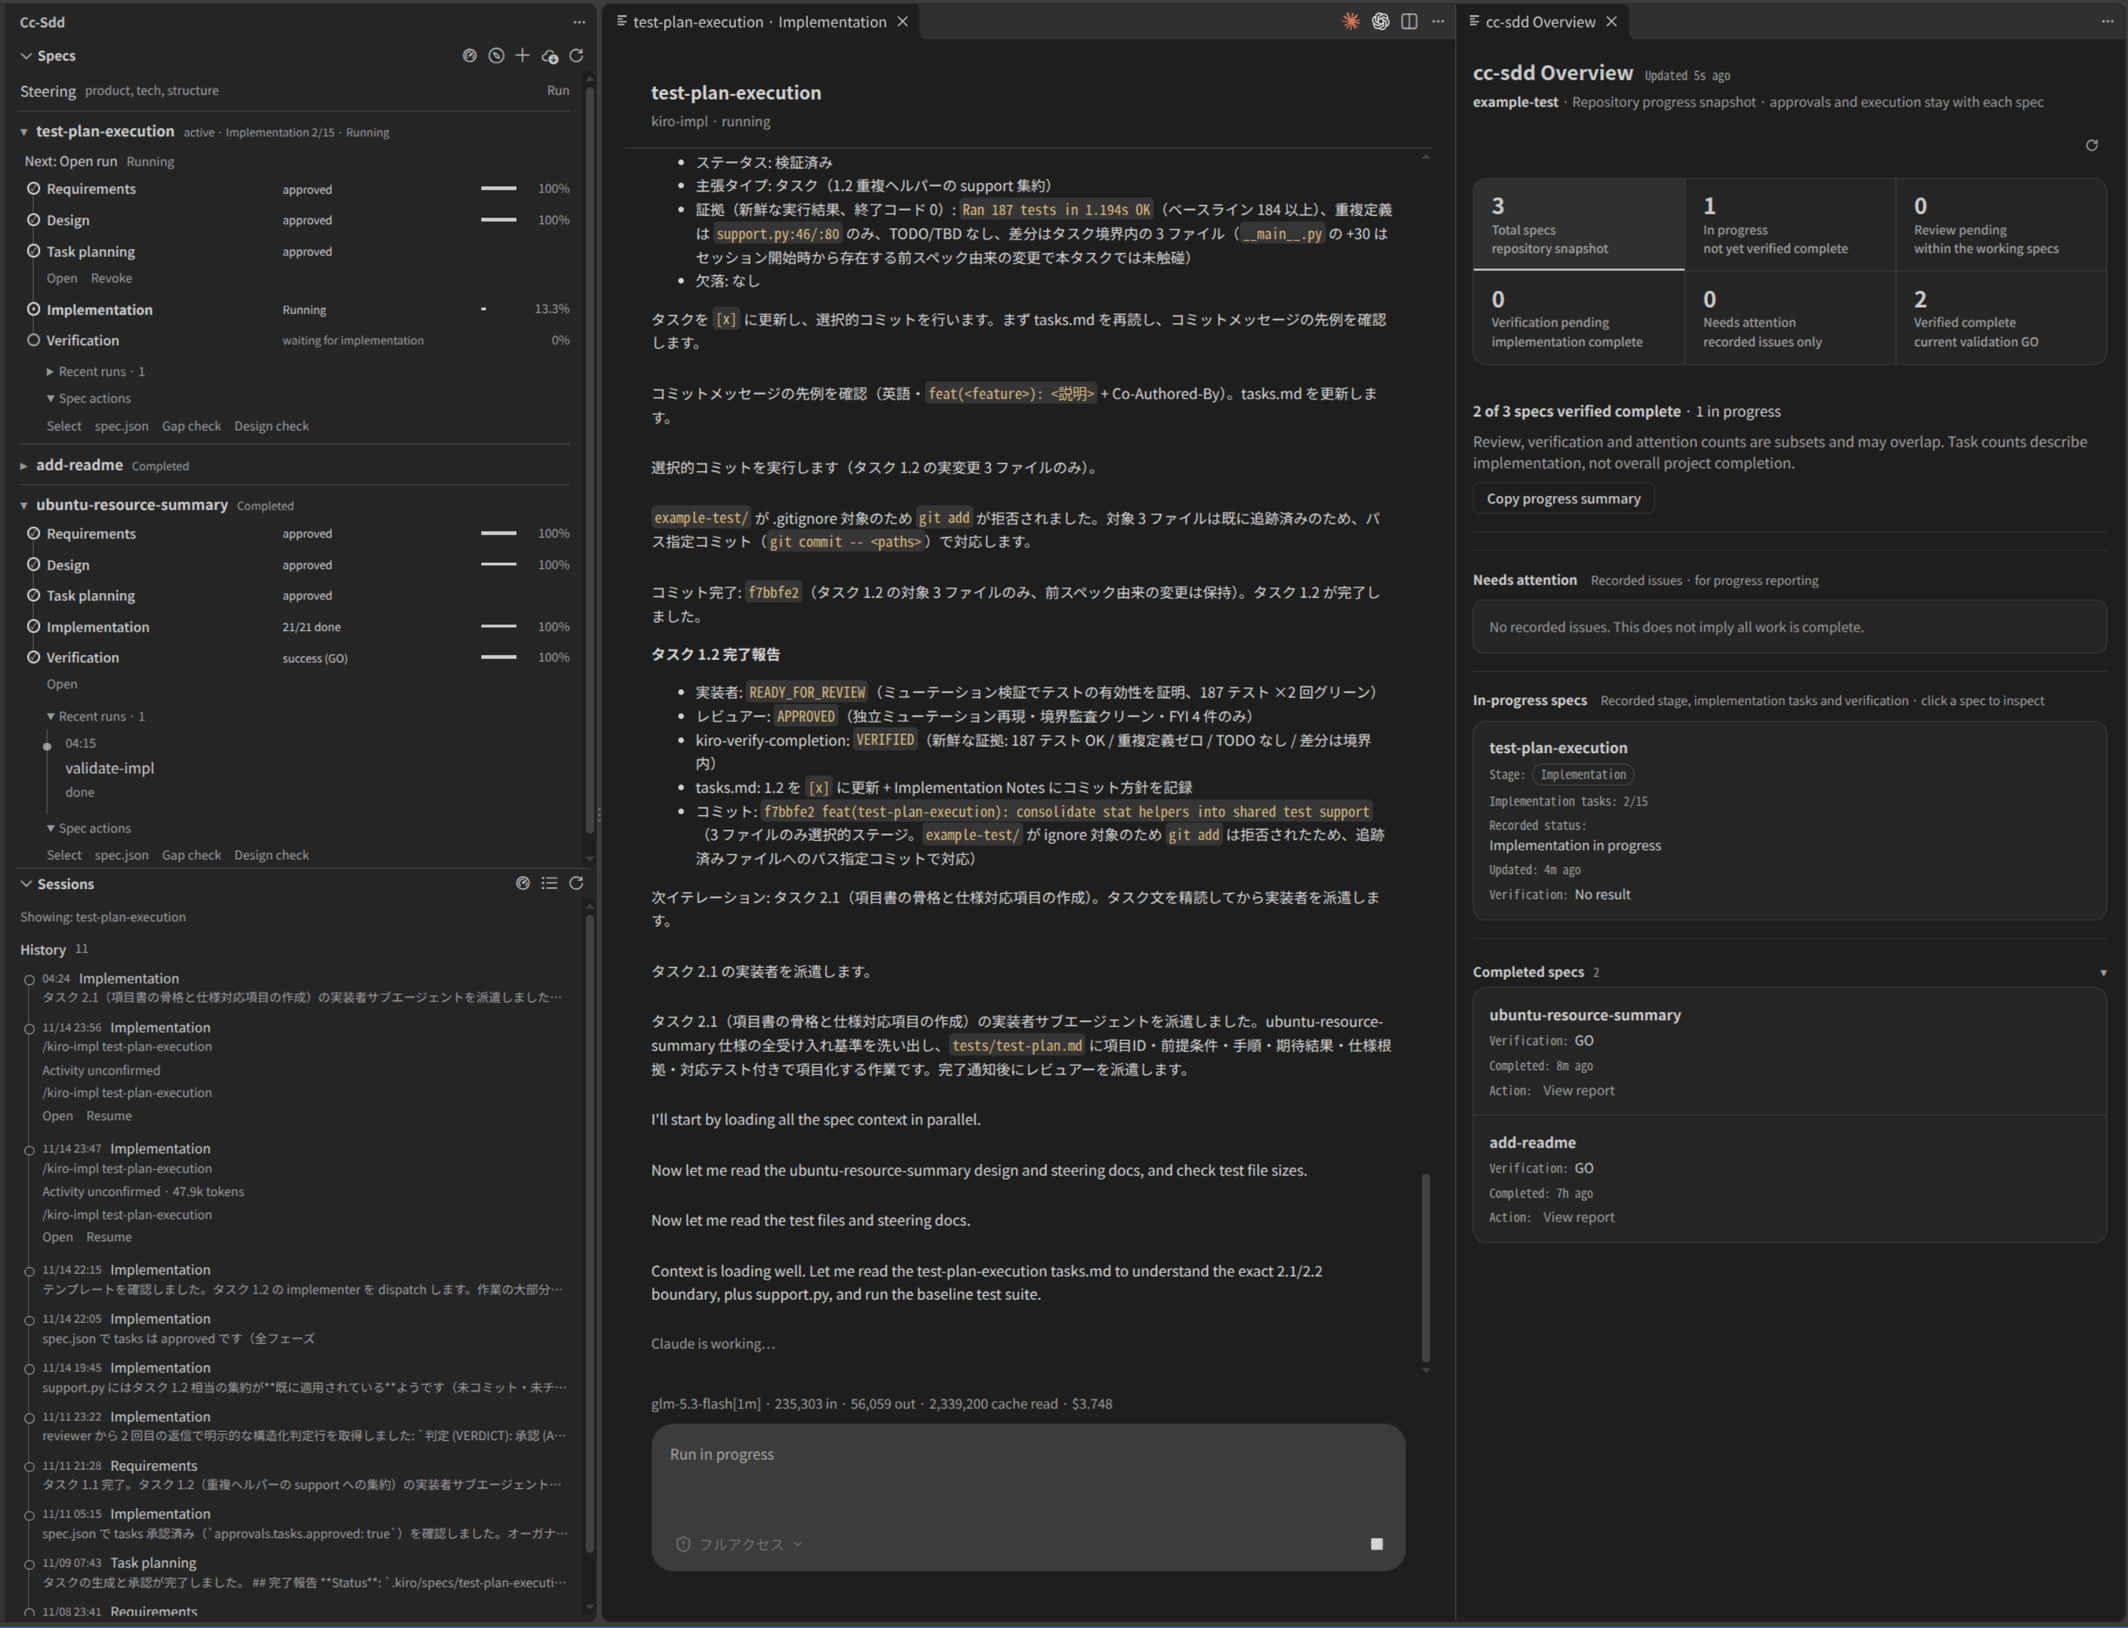
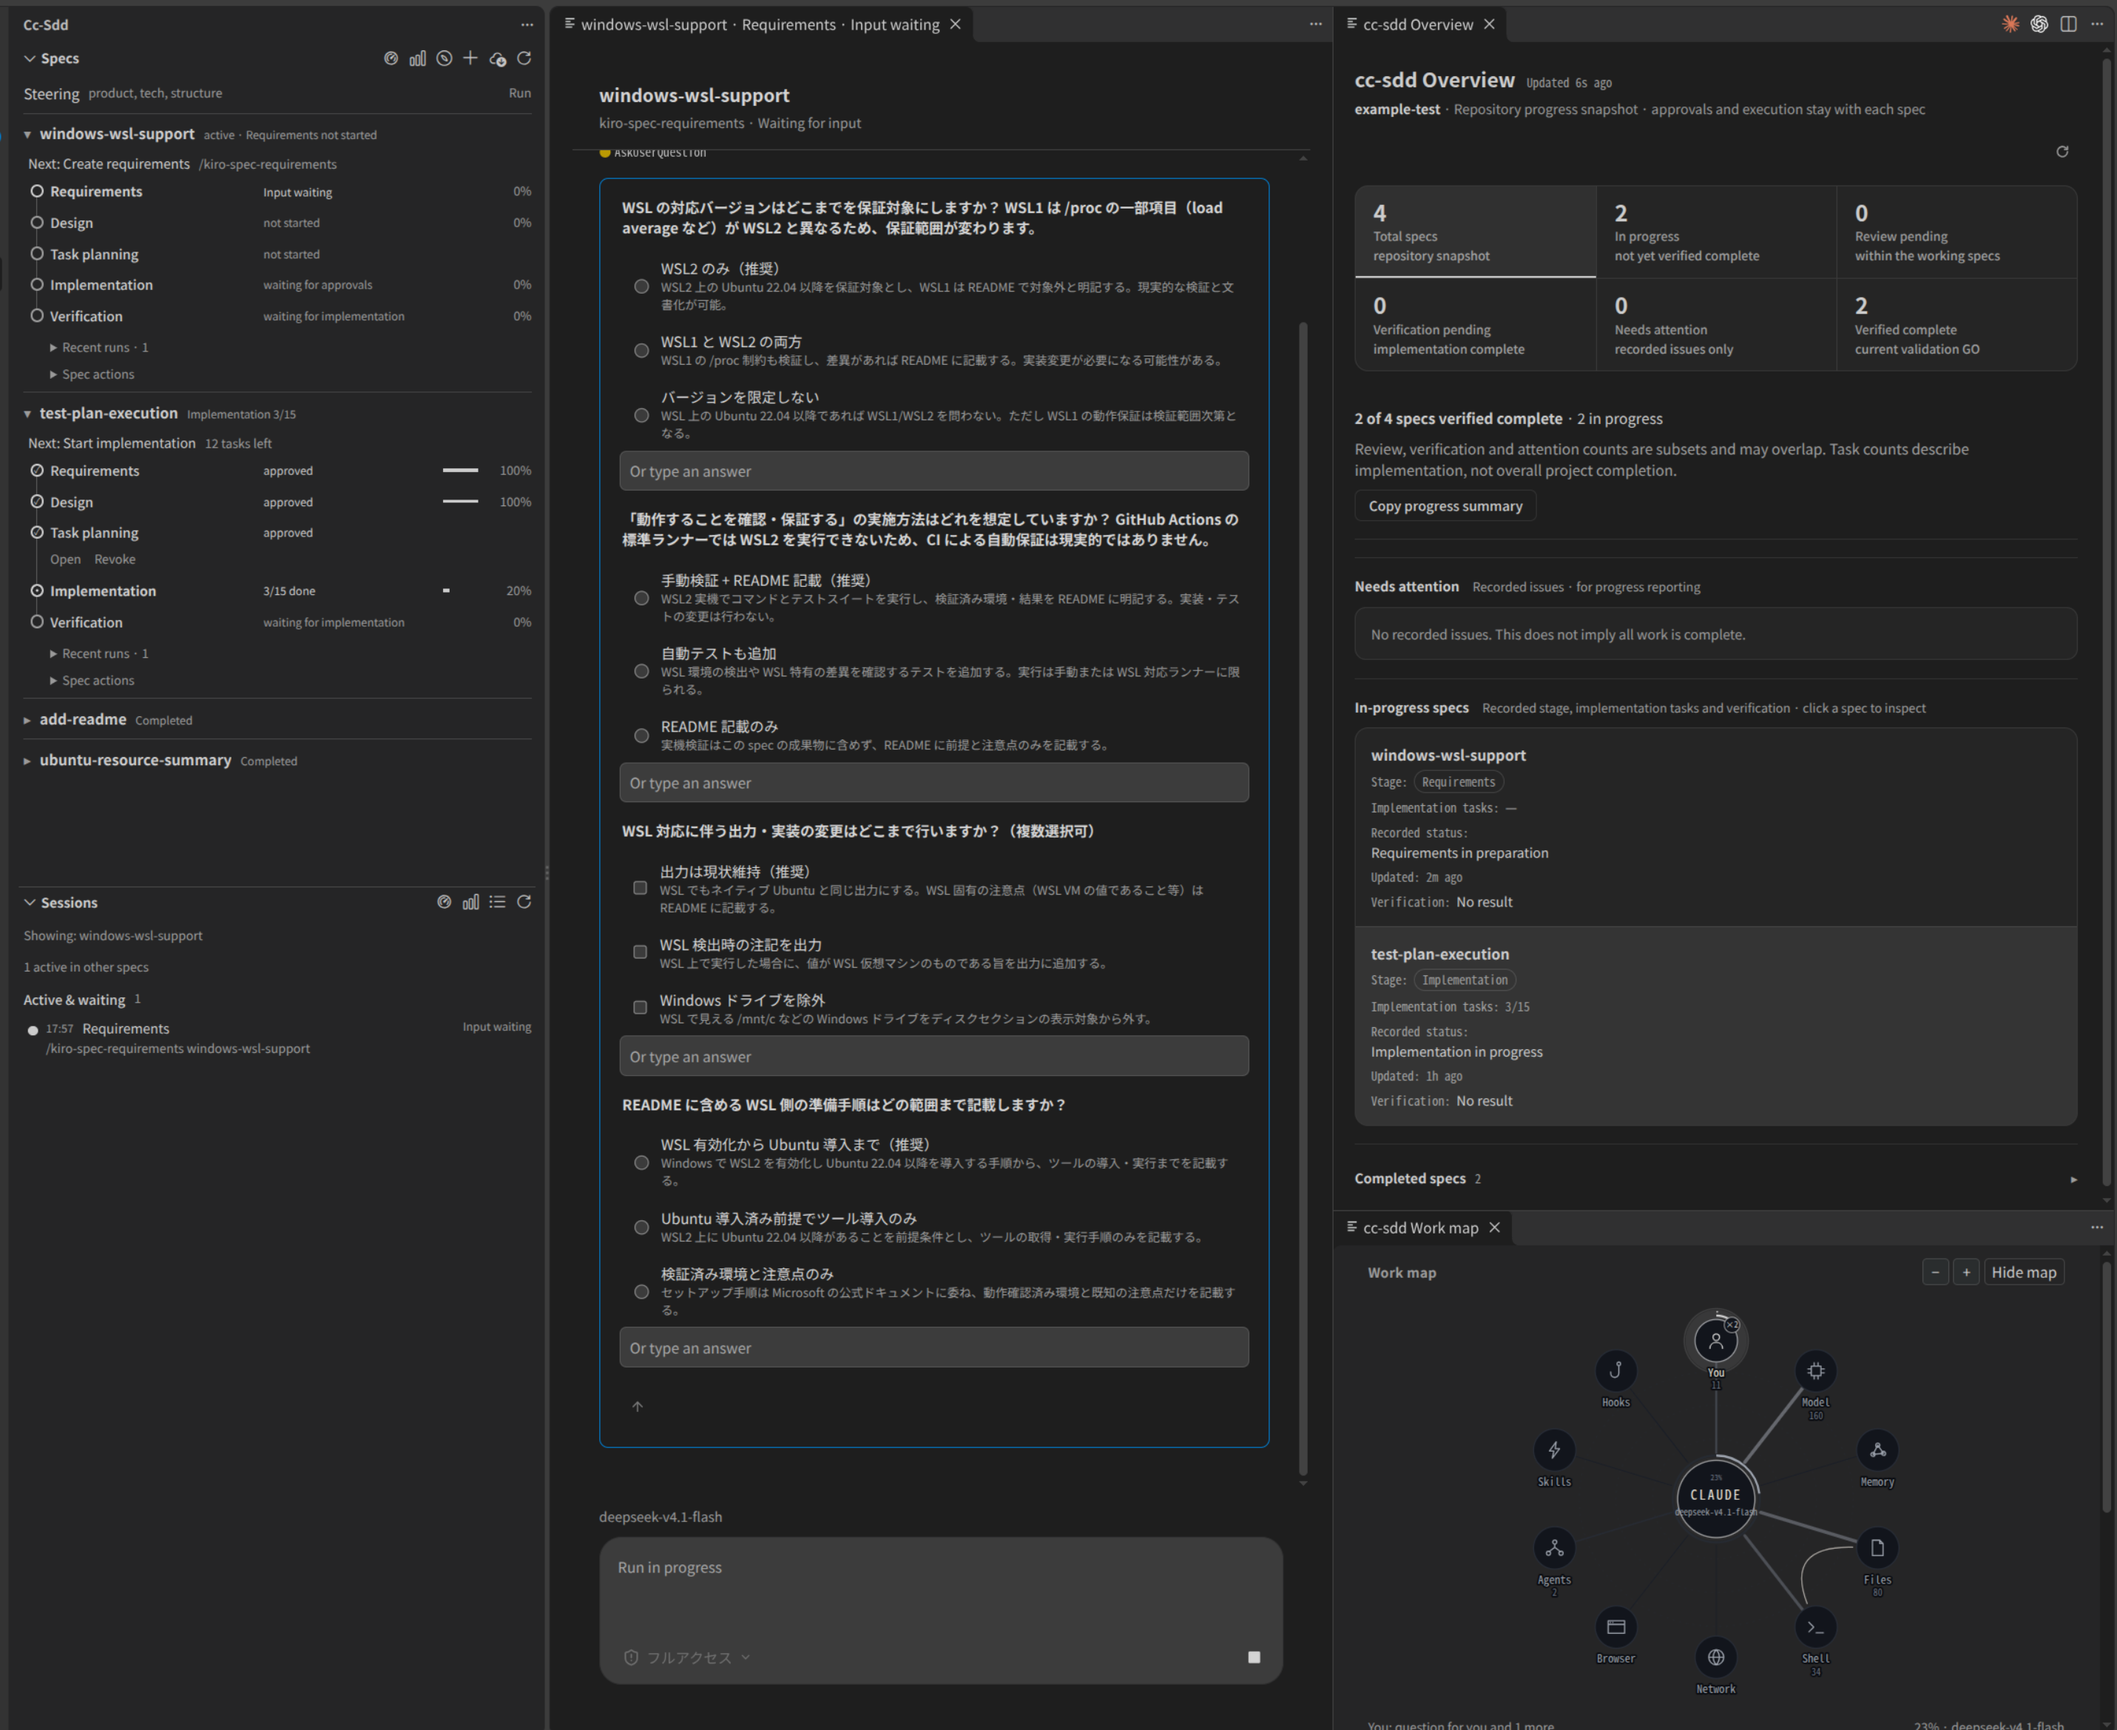
docs: refresh README and workbench screenshot for the work map

diff --git a/README.md b/README.md
@@ -4,21 +4,22 @@
 English | <a href="./README_ja.md">日本語</a>
 </sub></div>
 
-A VS Code workbench for [cc-sdd](https://github.com/gotalab/cc-sdd) specs. It reads `.kiro/specs/` directly and adds the missing UI layer: a spec explorer, approval gates, phase launchers, a task board, a headless **Runs** console, resumable Claude Code sessions, and a leader/PM **Overview** portfolio for spec progress.
+A VS Code workbench for [cc-sdd](https://github.com/gotalab/cc-sdd) specs. It reads `.kiro/specs/` directly and adds the missing UI layer: a spec explorer, approval gates, phase launchers, a task board, a headless **Runs** console with inline questions, resumable Claude Code sessions, a leader/PM **Overview** portfolio, and a live **Work map** of runs.
 
-![cc-sdd Specs workbench: Specs and Sessions in the sidebar, individual Run tabs in the middle, and the progress-reporting Overview on the right](./assets/workbench.png)
+![cc-sdd Specs workbench: Specs and Sessions in the sidebar, a Run with inline question cards in the middle, and the Overview and Work map on the right](./assets/workbench.png)
 
-The workbench is built around a Specs sidebar with embedded implementation tasks and a Sessions history timeline and two panels:
+The workbench is built around a Specs sidebar with embedded implementation tasks and a Sessions history timeline, plus three panels:
 
 - **Specs, Tasks, Sessions** — the sidebar selects one spec, shows its Requirements → Design → Tasks → Implementation → Verification pipeline, and keeps task execution and session resume in the matching views.
-- **Runs** — shows Markdown responses and progress in an assistant-ui conversation. Answer permission requests and single-choice, multiple-choice, or free-text questions inline; tool logs are hidden.
+- **Runs** — shows Markdown responses and progress in an assistant-ui conversation. Answer permission requests and single-choice, multiple-choice, or free-text questions inline; full tool logs stay hidden, while the last few tool calls appear under the live status line.
 - **Overview** — A repository progress snapshot for reporting: total / in-progress / review / verification / attention / verified counts, recorded concerns, spec stages and implementation progress, and collapsed verified completions. Copy progress summary exports the current snapshot. Approvals and execution remain in Specs.
+- **Work map** — a live map of headless runs in its own editor tab: tool calls, model steps, subagents and permissions light their stations as they happen, with a context-window ring and the last 16 actions. Monochrome by default, English labels, and an opt-in sidebar mirror.
 
 Architecture and internals (Japanese): **[docs/](./docs/README.md)**
 
 Specs uses a theme-aware sidebar timeline with connected stage markers, implementation task progress, approval/run actions, and the five most recent runs in this window. Implementation tasks are embedded under each spec’s Implementation stage, with completed tasks folded away. The standalone Tasks view has been removed; Sessions uses the same monochrome timeline style: active sessions first, then history ordered by last activity, with details and resume actions on expansion. Expansion and reading position are preserved on refresh.
 
-Runs uses one editor tab per run, titled with its spec and stage. Reopening a run or session reuses its tab. Closing a tab keeps the run available and does not cancel execution; use the square stop icon to stop it. `cc-sdd: Show Runs Console` opens a run picker with waiting runs first (or the only run directly). Session history also opens in its own tab. The rounded composer supports follow-up messages and an upward-opening permission menu. Send, resume, stop, and phase actions use icons with tooltips; there is no model selector.
+Runs uses one editor tab per run, titled with its spec and stage. Reopening a run or session reuses its tab. Closing a tab keeps the run available and does not cancel execution; use the square stop icon to stop it. `cc-sdd: Show Runs Console` opens a run picker with waiting runs first (or the only run directly). Session history also opens in its own tab. `AskUserQuestion` renders as inline cards with recommended options, multi-select choices and a free-text field. The rounded composer supports follow-up messages and an upward-opening permission menu. Send, resume, stop, and phase actions use icons with tooltips; there is no model selector.
 
 ## What it does
 
@@ -27,6 +28,7 @@ Runs uses one editor tab per run, titled with its spec and stage. Reopening a ru
 - **Approval gates** — validates the artifact before recording an approval. Missing sections and unresolved `{{PLACEHOLDER}}` tokens block approval; softer issues require explicit confirmation.
 - **Phase launcher** — runs `/kiro-spec-requirements`, `/kiro-spec-design`, `/kiro-spec-tasks`, and `/kiro-impl` in Claude Code, the Claude Code for VS Code panel, the headless Runs console, Codex, Copilot Chat, OpenCode, a custom command, or the clipboard.
 - **Overview portfolio** — A repository progress snapshot for reporting: total / in-progress / review / verification / attention / verified counts, recorded concerns, spec stages and implementation progress, and collapsed verified completions. Copy progress summary exports the current snapshot. Approvals and execution remain in Specs.
+- **Work map** — a live map of headless runs in its own editor tab. Tool calls, model steps, subagents and permissions light their station, the context window fills as a ring, and the last 16 actions stay under the map. Monochrome by default, with monochrome, teal or amber accents.
 - **Task board** — each spec’s Implementation stage contains its own tasks. Verification remains a separate stage, with start/revalidate/open-report actions. Completed tasks fold away; next, running, and waiting tasks are distinct. Run a single task, run the remaining tasks from a point, open the task in `tasks.md`, or open its active run.
 - **Sessions** — initially scoped to the selected spec, with a toggle for all specs. Active/waiting sessions are separated from history; each item shows spec, stage (including verification), state, and last activity. Resume is offered for history sessions and open-run for active sessions with a matching run.
 - **Run insights** — model name, input/output tokens, cache-read tokens, and cost above the composer. Export the latest run trace to `.kiro/runs/*.json` with `cc-sdd: Save Last Run Trace` for debugging.
@@ -73,6 +75,9 @@ The extension treats `spec.json` as the single source of truth and only writes a
 | `cc-sdd: Select Active Spec` | Choose the active spec and filter Sessions. |
 | `cc-sdd: Show Spec Status` | Open a Markdown summary of phases and approvals. |
 | `cc-sdd: Open Overview` | Open the leader / PM spec portfolio (also the dashboard icon in the Specs and Sessions title bars). |
+| `cc-sdd: Open Work Map` | Open the work map in an editor tab (also the graph icon in the Specs and Sessions title bars). |
+| `cc-sdd: Show Work Map in Sidebar` | Enable `ccSdd.mapInSidebar` and focus the map view in the cc-sdd sidebar. |
+| `cc-sdd: Choose Work Map Accent` | Switch the map accent between monochrome, teal and amber. |
 | Approve / Revoke Phase | Buttons beside each timeline stage. |
 | Run Phase | Context action on a missing/draft/generated phase. |
 | Run Implementation | Context action on a ready spec. |
@@ -91,6 +96,8 @@ Internal commands (`ccSdd.openArtifact`, `ccSdd.openTask`, and so on) are hidden
 | `ccSdd.claudePath` | `claude` | Path to the claude CLI used for headless runs. |
 | `ccSdd.installLanguage` | empty | Optional `--lang` value for the installer. |
 | `ccSdd.autoRefresh` | `true` | Watch the specs directory for changes. |
+| `ccSdd.mapInSidebar` | `false` | Also show the work map as a sidebar view (the panel is opened on demand). |
+| `ccSdd.mapAccent` | `mono` | Work map accent: `mono`, `teal` or `amber`. |
 
 ### Agent invocation
 
@@ -114,6 +121,18 @@ The **Sessions** view reads `~/.claude/projects/<encoded-workspace>/*.jsonl`, so
 - **Resume in Runs console** — continues the same session headlessly (Claude Agent SDK `resume`), with the usual permission picker. The stored conversation is displayed before the new responses; tool logs are omitted.
 - **Resume in terminal** — runs `claude --resume <session-id>` interactively.
 - **Open raw transcript** / **Copy session id** — for inspection or scripting.
+
+### Work map
+
+**cc-sdd: Open Work Map** — also the graph icon in the Specs and Sessions title bars — opens the work map in an editor tab, like Overview. Every tool call, model step, permission card and subagent sends a pulse from the centre to its station — You, Model, Memory, Files, Shell, Network, Browser, Agents, Skills or Hooks — so you can see where a run is spending its time instead of reading a command log. Spokes wear in with use, the context window fills as a ring around the centre, and the rows below the map list the last 16 actions with their durations. A model switch and the final answer are marked on the map.
+
+- The panel is opened on demand. Set `ccSdd.mapInSidebar` to also keep the map as a view in the cc-sdd sidebar; `cc-sdd: Show Work Map in Sidebar` turns that on and focuses it.
+- `ccSdd.mapAccent` picks the accent: `mono` keeps the map grey, with only the running station brightening (default); `teal` and `amber` are fixed palettes. `cc-sdd: Choose Work Map Accent` switches it from the command palette.
+- **Zoom** (`−` / `+`) draws the map at 160–400 px or as wide as the panel; **Hide map** folds it to its line of now. The choice is remembered.
+- The panel follows the events of the Runs console. It shows runs started from this extension (Agent SDK `query`); sessions running in another terminal or another Claude Code window are not connected to it, so the map stays empty for them.
+- Labels carry names only: a file's last two path parts, a host, a tool name, a short description written by the model. No file contents, patterns or query text are kept.
+
+The drawing, classification and palette are ported from [lot-map](https://github.com/alexeyw/lot-map) (MIT); see [THIRD_PARTY_NOTICES.md](./THIRD_PARTY_NOTICES.md).
 
 ### Overview portfolio
 

diff --git a/README.marketplace.md b/README.marketplace.md
@@ -3,8 +3,9 @@
 A VS Code workbench for [cc-sdd](https://github.com/gotalab/cc-sdd) specs. It reads `.kiro/specs/` directly and adds the missing UI layer for spec-driven development.
 
 - **Specs, Tasks, Sessions** — select a spec, follow its Requirements → Design → Tasks → Implementation → Verification pipeline, run individual or remaining tasks, and resume the matching sessions.
-- **Runs** — read Markdown responses and progress in an assistant-ui conversation. Answer permission requests and single-choice, multiple-choice, or free-text questions inline; tool logs are hidden.
+- **Runs** — read Markdown responses and progress in an assistant-ui conversation. Answer permission requests and single-choice, multiple-choice, or free-text questions inline; full tool logs stay hidden, while the last few tool calls appear under the live status line.
 - **Overview** — A repository progress snapshot for reporting: total / in-progress / review / verification / attention / verified counts, recorded concerns, spec stages and implementation progress, and collapsed verified completions. Copy progress summary exports the current snapshot. Approvals and execution remain in Specs.
+- **Work map** — a live map of headless runs in its own editor tab (like Overview): tool calls, model steps, subagents and permissions light up their stations as they happen, with a context-window ring and the last 16 actions. A sidebar view is available behind `ccSdd.mapInSidebar`.
 - **Approval gates** — validate artifacts before recording approvals. Missing sections and unresolved placeholders block approval.
 - **Phase launcher** — run cc-sdd phases in Claude Code, the Claude Code for VS Code panel, the headless Runs console, Codex, Copilot Chat, OpenCode, a custom command, or the clipboard.
 
